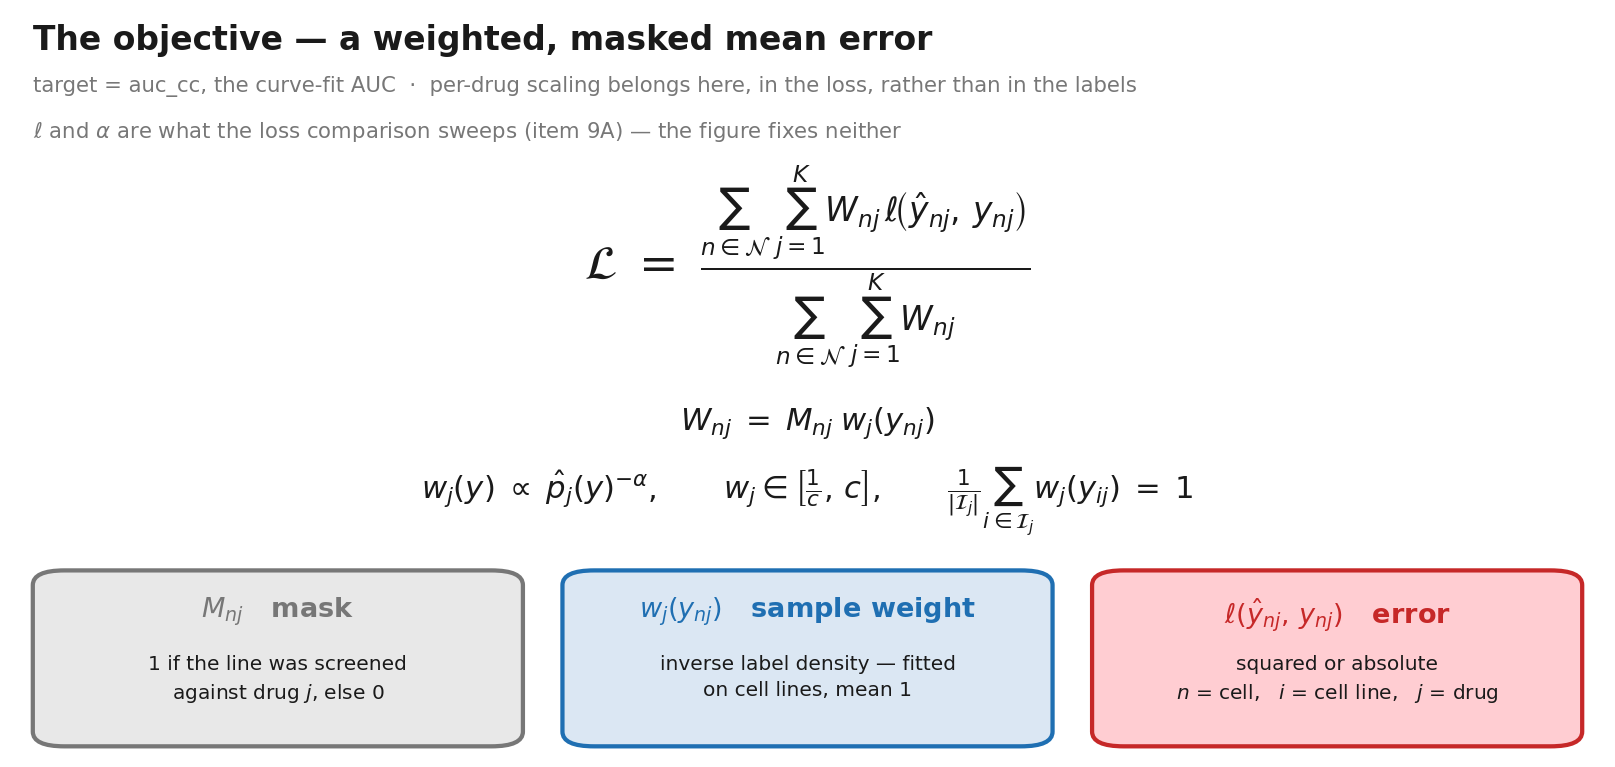
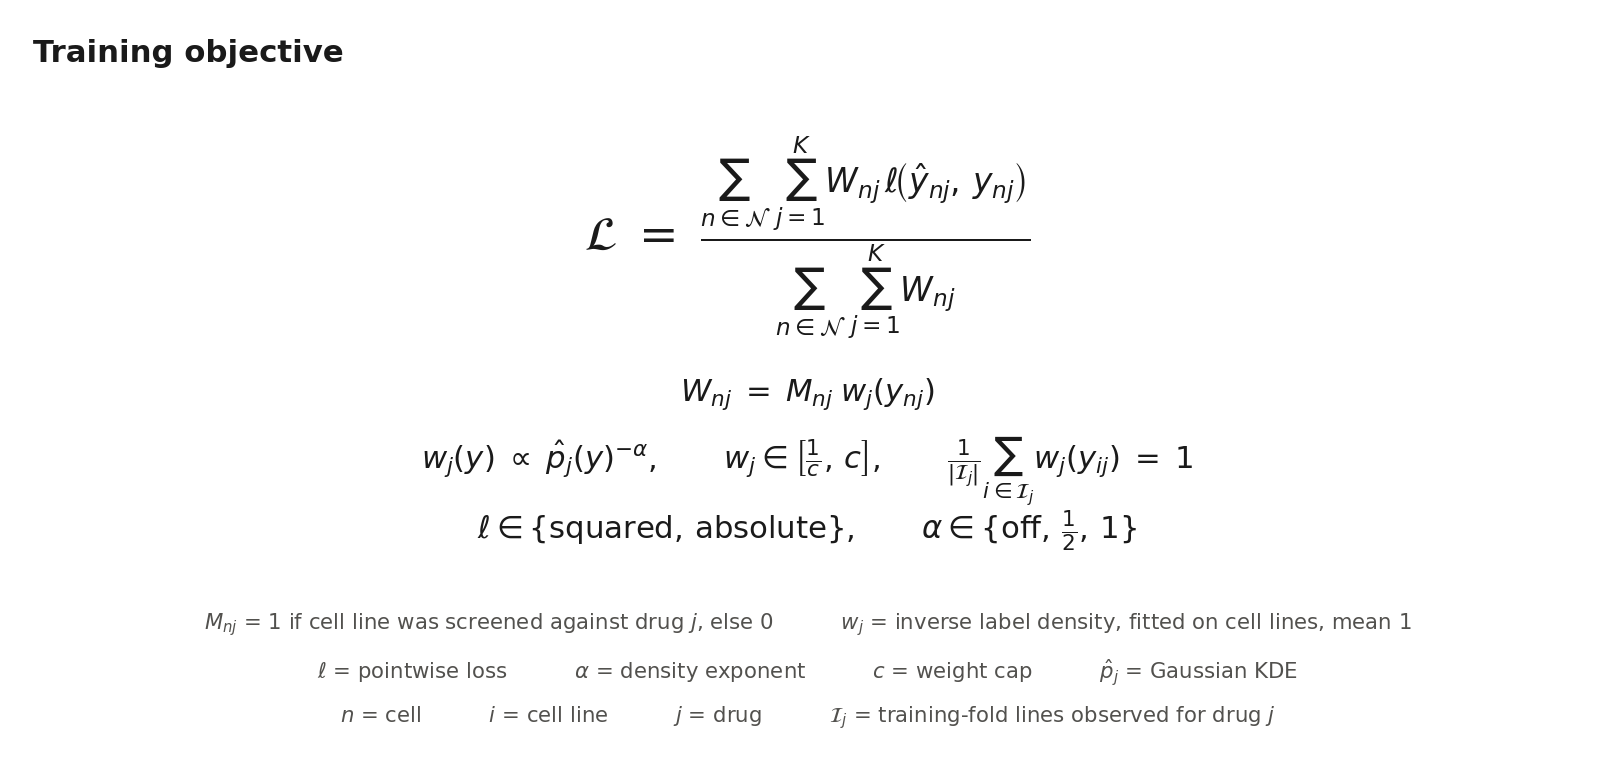
viz: neutralize the asserted results, derive the wrong counts, strip the decoration
The figure follow-up, first half: the items that are wrong regardless of what R4
produces. The half R4 rewrites underneath is listed and left.

ASSERTED RESULTS - NEUTRALIZED (four sites, not five; the earlier count double-
counted the pair of diagonal annotations)

* build_pipeline_flow's stage-8 label read "one seed - only scGPT clears the
  ridge control": a finding of the void 8-drug run printed as a STEP OF THE
  PIPELINE, where nothing about it could be falsified. Now "mean per-drug
  Spearman, MLP against ridge".
* build_loss_effect's title read "The weighting fired - and the ranking did not
  move" - the 27.07 conclusion, on the figure drawn from the run that re-tests
  it. Now names the two quantities and the contrast.
* Its two diagonal annotations read the result off the plot for the reader. The
  dashed line needs identifying, not explaining: "dashed: y = x".

ASSERTED A SWEPT ARM AS FACT - NEUTRALIZED (three sites; the audit had two)

draw_architecture's "trained with the density-weighted masked MSE" asserted two
arms of the six-arm comparison as settled. build_pipeline_flow's "rare response
values weighted up" is true only for alpha > 0. And build_pipeline's box 03 said
"masked MSE", found in this sweep and not in the audit. All three now name the
structure audit 09 actually froze - masked mean error over observed pairs.

COUNTS - THE TWO THAT WERE WRONG NOW DERIVE FROM len(PANEL)
[…]

diff --git a/docs/make_figures.py b/docs/make_figures.py
@@ -37,12 +37,18 @@ Derive it — ``len(PANEL)``, a row count, a config value. ``"the 8 heads"`` was
 was found (the rebuilt panel has 11), and ``180 trainable`` becomes 181 at the sweep. A number typed
 into a string cannot be checked by anything.
 
-AUDIT AGAINST THOSE RULES — 12.08.2026, not yet applied
--------------------------------------------------------
+AUDIT AGAINST THOSE RULES — 12.08.2026; ✅ items applied 13.08.2026
+-------------------------------------------------------------------
+**Applied:** every assertion (⛔), both counts that were *wrong* rather than merely hardcoded, and
+the infographic cleanup of ``draw_loss_objective``. **Not applied, and why:** the four headline
+captions quantify results and would only be rewritten after R4; the seven remaining counts are
+correct today and are not derivable from any committed artifact under the freeze; and
+``draw_architecture``'s decorative marks cannot be touched because every figure that renders it is
+skipped, so no change to it can be looked at — and this file does not commit drawings nobody has
+seen. Each is marked below.
+
 Every title, caption, annotation and axis label in this file, judged twice: *does it assert a
-result?* and *is it a scientific caption or a headline?* **Nothing below has been rewritten.** The
-figures are held until R4, and the ⛔ entries cannot be rewritten before then anyway — a title naming
-what the run showed has to wait for the run. A checklist, so the pass is not a rediscovery.
+result?* and *is it a scientific caption or a headline?*
 
 **Keyed by function and by the opening words of the string — never by line number.** The first
 version of this audit was keyed by line, and the commit that recorded it is the commit that broke
@@ -51,22 +57,45 @@ file under active edit decay silently, and a checklist that sends the reader to 
 worse than none, because it will be trusted. ``grep -n`` on the quoted words finds each site in any
 ref.
 
-⛔ **Asserts a result — rewrite from what the run shows, not before:**
+✅ **Asserted a result — neutralized 13.08.2026.** Four sites, not five: the earlier count of five
+double-counted the pair of diagonal annotations. Each now says what is plotted; what it means belongs
+in prose. Not deferred to R4, because after the run the fix would only swap one asserted result for
+another.
   ``build_pipeline_flow``   "one seed — only scGPT clears the ridge control"
-        A finding from the void 8-drug run used as the **stage-8 label of the pipeline diagram**, so
-        the drawing of the pipeline presents an outcome as though it were one of its steps.
+        → "mean per-drug Spearman, MLP against ridge". A finding of the void 8-drug run used as the
+        **stage-8 label of the pipeline diagram**, where nothing about it could be falsified.
   ``build_loss_effect``     "The weighting fired — and the ranking did not move"
-        The 27.07 conclusion, on the figure drawn from the run that re-tests that very claim.
+        → "Prediction spread and per-drug Spearman, unweighted against density-weighted".
   ``build_loss_effect``     "above the line: the model hedges less" · "on the line: no gain, no loss"
+        → "dashed: y = x". The diagonal needs identifying, not interpreting.
 
-⛔ **Asserts a swept arm as a fact:**
+✅ **Asserted a swept arm as a fact — neutralized 13.08.2026.** Three sites: the audit found two and
+a third turned up in the same sweep.
   ``draw_architecture``     "per-cell MLP · trained with the density-weighted masked MSE"
-        States both that weighting is on and that the loss is squared error. Under item 9A ``alpha``
-        is in {0.0, 0.5, 1.0} and the loss is MSE / MAE — both are arms.
+        → "masked mean error over observed (cell, drug) pairs". It asserted two arms of the six-arm
+        comparison as settled — that the weighting is on, and that the loss is squared.
   ``build_pipeline_flow``   "unscreened pairs dropped, rare response values weighted up"
-        Same class: true only for ``alpha > 0``.
+        → "unscreened pairs dropped; per-drug sample weights". True only for ``alpha > 0``.
+  ``build_pipeline``        "masked MSE · matched (128,64) MLP"   (found 13.08, not in the audit)
+        → "masked mean error · matched (128,64) MLP".
 
-⚠ **Headline register — true, but the wrong form:**
+⛔ **A measurement published under another drug's name — found 13.08.2026, guarded, NOT repaired.**
+  Not a register or a count defect, and the most serious thing in this file. ``draw_architecture``
+  drew ``EXAMPLE_PRED``/``EXAMPLE_TRUE`` — eight real out-of-fold predictions from the **void 8-drug**
+  run — and labelled bar ``j`` with ``PANEL[j]``, the **rebuilt 11-drug** panel. The two panels share
+  three compounds, in a different order, so **all eight bars carried the wrong compound's name**, and
+  four labels named drugs that were never in that run. Verified against
+  ``legacy/panel_void_8drug/panel_oof_predictions.csv``: the bar labelled *paclitaxel* held
+  vincristine's value; the bar labelled *doxorubicin* held methotrexate's.
+  Repair needs out-of-fold predictions for the rebuilt panel, i.e. R4. Until then
+  :func:`_example_matches_panel` skips both consumers with a printed reason. ``EXAMPLE_DRUGS`` now
+  records which compounds the vector actually describes, which is what made the mismatch checkable
+  instead of invisible.
+
+⚠ **Headline register — true, but the wrong form. NOT rewritten: they quantify results, so drafting
+  them now guarantees rewriting them after R4.** Two of the four were removed anyway as a side
+  effect of the infographic cleanup (``draw_loss_objective``'s title and its "per-drug scaling
+  belongs here" line); the two in ``draw_architecture`` stand.
   ``draw_architecture``     "Model architecture — one cell in, one AUC per panel drug out"
         The clause after the dash is a strapline; "Model architecture" is the caption.
   ``draw_loss_objective``   "The objective — a weighted, masked mean error"     (written 12.08, mine)
@@ -76,17 +105,31 @@ ref.
         cited. A *different passage* from the PLOTTED/CURRENT disclaimer below, in the same function
         — the two sit ten lines apart and have been confused once already.
 
-⚠ **Infographic register (rule 3).** ``draw_loss_objective``'s three rounded colour-filled callout
-  boxes and grey italic asides; ``draw_architecture``'s circles, arrows and heat strips. Both mine
-  to redraw at R4.
+✅⚠ **Infographic register (rule 3) — half applied.**
+  ``draw_loss_objective``   ✅ the three rounded colour-filled callout panels and the two grey
+        asides are gone, replaced by a plain symbol list under the equations. The title is
+        "Training objective"; the argument about where per-drug scaling belongs has moved out.
+  ``draw_architecture``     ⚠ **not touched, deliberately.** Its circles, arrows and heat strips
+        are decoration by rule 3, but *every figure that renders this function is skipped* — so no
+        change to it could be rendered and looked at, and this file does not commit drawings nobody
+        has seen. It is the one item here blocked by the freeze rather than by R4's numbers.
 
-⚠ **Hardcoded counts (rule 4).**
-  ``draw_architecture``     "the 8 heads are the 8 rows of one Linear(64 → 8)"  — **already wrong**:
-        it describes the architecture, inside the architecture diagram, and the rebuilt panel has 11.
-  ``build_pipeline``        "CTRPv2 545 drugs" · "overlap 190* lines · 180 trainable" ·
-                            "K=545 · out-of-fold over 153 lines" · "out-of-fold CV over 153 lines" ·
-                            "* 190 = name-matches …"          — ``180`` becomes 181 at the sweep.
-  ``build_pipeline_flow``   "one cell line = 56–1,990 cells" · "545 drugs  →" · "8  the panel"
+✅⚠ **Hardcoded counts (rule 4) — the two that were wrong are fixed; seven remain and are correct.**
+  ``draw_architecture``     ✅ "the 8 heads … Linear(64 → 8)" now derives from ``len(PANEL)``.
+  ``build_pipeline_flow``   ✅ the funnel's panel tier derives from ``len(PANEL)``. It was hardcoded
+        ``8`` against a rebuilt panel of 11, and the same ``n`` sets the tier's drawn width — so the
+        funnel was the wrong shape as well as the wrong number.
+  ⚠ **Not derivable under the freeze, and correct as they stand:** ``build_pipeline``'s "SCP542
+        53,513 cells x 22,722 g", "CTRPv2 545 drugs", "overlap 190* lines · 180 trainable",
+        "K=545 · out-of-fold over 153 lines", "out-of-fold CV over 153 lines", the "* 190 = …"
+        footnote, "173 FDA / clinical"; and ``build_pipeline_flow``'s "one cell line = 56–1,990
+        cells" and "545 drugs →". Their sources are the targets h5ad and the response table, neither
+        of which a standard run has produced on ``auc_cc``. ``53,513`` alone could be read from
+        ``notebooks/outputs/embeddings/scgpt_nonzero_per_cell.npz`` — but only by making
+        ``pipeline_overview.png``, a pure drawing, data-dependent, which would cost it the property
+        of always building. That trade is a design choice and was referred up rather than taken here.
+        ``180`` becomes 181 at the sweep; ``173 FDA / clinical`` may already be superseded by the
+        57-row ``literature_panel_candidates.csv``, which is a question about what the tier means.
 
 ✅ **Correct as written; do not sweep in:**
   ``draw_architecture``     "PLOTTED: the superseded run … CURRENT PIPELINE: auc_cc, …"
@@ -227,7 +270,9 @@ def build_pipeline():
         ["scGPT X_scGPT = 512-d", "gene-set sweep 1k-5k + all_genes",
          "X_pca = 512-d · cancer-type UMAPs"], GREEN, GREEN_FILL)
     box(ax, XS[2], ROW_A, W, H, "03 · Model & training design",
-        ["per-cell input -> viability", "masked MSE · matched (128,64) MLP",
+        # "masked MSE" named the squared loss as settled; it is an arm of the six-arm comparison.
+        # Found beyond the audit's list, same class as the other two.
+        ["per-cell input -> viability", "masked mean error · matched (128,64) MLP",
          "PCA & scGPT both 512-d"], GREEN, GREEN_FILL)
     # Results withdrawn 12.08.2026 -- the target was replaced, the panel rebuilt, and the
     # representations predate the preprocessing corrections. These boxes named specific numbers
@@ -295,12 +340,40 @@ def _heat_strip(ax, xc, y0, y1, vals, cmap, w=2.4):
 
 
 #: One real held-out cell line, scGPT, unweighted run (notebooks/outputs/legacy/panel_void_8drug/panel_oof_predictions.csv,
-#: fold in which SKES1_BONE was held out). Predicted vs measured AUC for the eight panel drugs. Used
-#: instead of an invented vector so the figure shows the actual output scale -- including the visible
-#: shrinkage (predictions span 0.37-0.75 against a measured 0.04-0.91).
+#: fold in which SKES1_BONE was held out). Predicted vs measured AUC. Used instead of an invented
+#: vector so the figure shows the actual output scale -- including the visible shrinkage
+#: (predictions span 0.37-0.75 against a measured 0.04-0.91).
+#:
+#: ⛔ **These belong to the VOID 8-drug panel and must not be drawn against ``PANEL``.** In file
+#: order they are methotrexate, dasatinib, paclitaxel, vincristine, afatinib, topotecan,
+#: tanespimycin, selumetinib. The drawing labelled bar ``j`` with ``PANEL[j]``, and the rebuilt
+#: 11-drug panel shares only three compounds with the void one and in a different order -- so **all
+#: eight bars were attributed to the wrong compound**, and four of the labels name drugs that were
+#: never in the run at all. That is not a stale count; it is a measurement shown under another
+#: drug's name. Guarded by :func:`_example_matches_panel` rather than repaired here: repairing it
+#: needs out-of-fold predictions for the rebuilt panel, which exist only after R4.
 EXAMPLE_LINE = "SKES1_BONE"
+EXAMPLE_DRUGS = ["methotrexate", "dasatinib", "paclitaxel", "vincristine",
+                 "afatinib", "topotecan", "tanespimycin", "selumetinib"]
 EXAMPLE_PRED = [0.438, 0.663, 0.384, 0.372, 0.748, 0.545, 0.666, 0.739]
 EXAMPLE_TRUE = [0.511, 0.797, 0.122, 0.036, 0.692, 0.177, 0.655, 0.908]
+
+
+def _example_matches_panel(name: str) -> bool:
+    """True (and prints why) if the architecture example vector does not describe ``PANEL``.
+
+    The bars are real out-of-fold predictions, so each one is a measurement and carries the name of
+    the drug it was measured on. When the example vector and the panel disagree, drawing them
+    together publishes each measurement under some other compound's name -- which no amount of
+    caption disclaims. Skip-with-a-reason, the same convention the data-derived figures use.
+    """
+    if EXAMPLE_DRUGS == list(PANEL):
+        return False
+    print(f"  {name}: SKIPPED — the example prediction vector is the void 8-drug panel "
+          f"({', '.join(EXAMPLE_DRUGS[:3])}…) and the current panel is {len(PANEL)} drugs "
+          f"({', '.join(PANEL[:3])}…). Drawing them together labels each measurement with "
+          f"another drug's name. Needs out-of-fold predictions for the rebuilt panel (R4).")
+    return True
 
 
 def draw_architecture(ax, *, compact: bool = False):
@@ -329,7 +402,10 @@ def draw_architecture(ax, *, compact: bool = False):
         # "8-drug" and "25 epochs" are accurate about what is PLOTTED and wrong only if read as the
         # current pipeline. Split into two lines on 12.08.2026 (Selin) so the distinction is on the
         # figure rather than only in the README caption.
-        ax.text(0, 48.0, "per-cell MLP · trained with the density-weighted masked MSE (loss_01–03)",
+        # Was "trained with the density-weighted masked MSE", which asserted two arms of the six-arm
+        # comparison as settled: that the weighting is on, and that the loss is squared error. Names
+        # the structure that audit 09 froze instead, which is what the diagram actually shows.
+        ax.text(0, 48.0, "per-cell MLP · masked mean error over observed (cell, drug) pairs (loss_01)",
                 ha="left", va="top", fontsize=8.5, color=GREY)
 
     # ---------- INPUT: one cell -> embedding vector ----------
@@ -380,7 +456,10 @@ def draw_architecture(ax, *, compact: bool = False):
         ax.text(43.2, 22.6, "hidden block  =  Linear → LayerNorm → GELU → Dropout 0.5      ·      "
                             "input dropout 0.1      ·      Adam, early stopping (patience 10)",
                 ha="center", va="top", fontsize=8.2, color=INK)
-        ax.text(43.2, 19.8, "the 8 heads are the 8 rows of one Linear(64 → 8) over a shared trunk — "
+        # Derived from PANEL, not typed. This read "the 8 heads … Linear(64 → 8)" while the rebuilt
+        # panel had 11 — a wrong statement about the architecture, inside the architecture diagram.
+        ax.text(43.2, 19.8, f"the {len(PANEL)} heads are the {len(PANEL)} rows of one "
+                            f"Linear(64 → {len(PANEL)}) over a shared trunk — "
                             "there is no per-drug sub-network",
                 ha="center", va="top", fontsize=8.2, color=GREY, style="italic")
 
@@ -437,7 +516,7 @@ def draw_architecture(ax, *, compact: bool = False):
 
 
 def build_architecture():
-    if _needs_data("model_architecture.png"):
+    if _needs_data("model_architecture.png") or _example_matches_panel("model_architecture.png"):
         return
     fig, ax = plt.subplots(figsize=(17.0, 6.6))
     draw_architecture(ax)
@@ -575,7 +654,8 @@ def build_pipeline_flow():
     ``loss_01_objective.png`` with ``compact=True``, so the pipeline cannot drift away from the
     standalone figures. Everything that needs a sentence lives in the docs, not on the slide.
     """
-    if _needs_data("pipeline.png"):
+    # Stage 5 embeds draw_architecture, so the same mislabelling reaches this figure.
+    if _needs_data("pipeline.png") or _example_matches_panel("pipeline.png"):
         return
     d = figure_data()
     corr = panel_corr()
@@ -636,9 +716,11 @@ def build_pipeline_flow():
           "only compounds with a published\nsensitivity determinant", ROW1_CAP)
     ax = fig.add_axes([0.255, 0.615, 0.125, 0.225]); ax.set_xlim(0, 10); ax.set_ylim(0, 10)
     ax.axis("off")
+    # The panel tier is derived: it was hardcoded 8 against a rebuilt panel of 11, and `n` also sets
+    # the tier's drawn width, so the funnel was the wrong shape as well as the wrong number.
     for i, (n, lab, col) in enumerate([(545, "545  CTRPv2 compounds", "#c3dcef"),
                                        (173, "173  FDA / clinical", "#6ba7d6"),
-                                       (8, "8  the panel", BLUE)]):
+                                       (len(PANEL), f"{len(PANEL)}  the panel", BLUE)]):
         half = 4.6 * (0.55 + 0.45 * (n / 545) ** 0.35)
         yb = 7.4 - i * 2.9
         ax.add_patch(mpatches.Polygon(
@@ -736,8 +818,10 @@ def build_pipeline_flow():
     draw_architecture(ax, compact=True)
 
     # ================================================== 6 · loss  (the standalone drawing)
+    # "rare response values weighted up" asserted that the weighting is on. It is an arm: alpha in
+    # {0, 0.5, 1.0}, and at alpha=0 no value is weighted up at all. Says what the stage does instead.
     stage(41.0, ROW2_TITLE, "6", "Loss",
-          "unscreened pairs dropped, rare\nresponse values weighted up", ROW2_CAP)
+          "unscreened pairs dropped;\nper-drug sample weights", ROW2_CAP)
     ax = fig.add_axes([0.405, 0.215, 0.215, 0.16])
     draw_loss_objective(ax, compact=True)
 
@@ -757,8 +841,11 @@ def build_pipeline_flow():
     ax.tick_params(labelsize=6.5)
 
     # ================================================== 8 · result
+    # "only scGPT clears the ridge control" stated a finding of the void 8-drug run as a *step of the
+    # pipeline*, where nothing could falsify it. The panel below plots four means; the caption now
+    # says that and no more.
     stage(82.0, ROW2_TITLE, "8", "Result",
-          "one seed — only scGPT clears\nthe ridge control", ROW2_CAP)
+          "mean per-drug Spearman,\nMLP against ridge", ROW2_CAP)
     ax = fig.add_axes([0.868, 0.155, 0.115, 0.255])
     ridge = pd.read_csv(LEGACY_PANEL / "panel_ridge_baseline.csv")
     bars = [
@@ -936,18 +1023,10 @@ def draw_loss_objective(ax, *, compact: bool = False):
     tex = LOSS_TEX_MACROS
 
     if not compact:
-        ax.text(1, 99, "The objective — a weighted, masked mean error",
-                ha="left", va="top", fontsize=14, fontweight="bold", color=INK)
-        ax.text(1, 92, "target = auc_cc, the curve-fit AUC  ·  per-drug scaling belongs here, in the "
-                       "loss, rather than in the labels",
-                ha="left", va="top", fontsize=9, color=GREY)
-        # The three swept quantities are named as swept, so the figure cannot be read as claiming a
-        # loss the run has not chosen yet.
-        ax.text(1, 86, r"$\ell$ and $\alpha$ are what the loss comparison sweeps "
-                       "(item 9A) — the figure fixes neither",
-                ha="left", va="top", fontsize=9, color=GREY)
+        ax.text(1, 97, "Training objective", ha="left", va="top",
+                fontsize=13, fontweight="bold", color=INK)
 
-    ax.text(50, 80 if not compact else 92, f"${tex['LossObjective']}$",
+    ax.text(50, 84 if not compact else 92, f"${tex['LossObjective']}$",
             ha="center", va="top", fontsize=20 if not compact else 15, color=INK)
     if compact:
         return
@@ -955,25 +1034,24 @@ def draw_loss_objective(ax, *, compact: bool = False):
     # The weight definition is not decoration: the objective above sums over cells (n), while the
     # density is fitted on the training fold's cell LINES (i). Dropping these two lines would leave
     # an equation equally true of the naive per-cell variant this deliberately rejects.
-    ax.text(50, 47, f"${tex['LossWeightMatrix']}$",
+    ax.text(50, 51, f"${tex['LossWeightMatrix']}$",
             ha="center", va="top", fontsize=13, color=INK)
-    ax.text(50, 39, f"${tex['LossWeightFn']}$",
+    ax.text(50, 43, f"${tex['LossWeightFn']}$",
+            ha="center", va="top", fontsize=13, color=INK)
+    ax.text(50, 33, f"${tex['LossArms']}$",
             ha="center", va="top", fontsize=13, color=INK)
 
-    for x, edge, fill, head, body in [
-        (1.5, GREY, GREY_FILL, r"$M_{nj}$   mask",
-         "1 if the line was screened\nagainst drug $j$, else 0"),
-        (35.0, BLUE, BLUE_FILL, r"$w_j(y_{nj})$   sample weight",
-         "inverse label density — fitted\non cell lines, mean 1"),
-        (68.5, RED, RED_FILL, r"$\ell(\hat{y}_{nj},\,y_{nj})$   error",
-         "squared or absolute\n$n$ = cell,   $i$ = cell line,   $j$ = drug"),
-    ]:
-        ax.add_patch(FancyBboxPatch((x, 1), 30, 23, boxstyle="round,pad=0.5,rounding_size=2.0",
-                     linewidth=1.8, edgecolor=edge, facecolor=fill, zorder=2))
-        ax.text(x + 15, 21.0, head, ha="center", va="top", fontsize=11.5,
-                fontweight="bold", color=edge, zorder=3)
-        ax.text(x + 15, 13.0, body, ha="center", va="top", fontsize=8.5, color=INK,
-                zorder=3, linespacing=1.5)
+    # Plain definition list, replacing three rounded colour-filled callout panels. The symbols need
+    # defining; they do not need a coloured box each, and the boxes carried no information the text
+    # does not. Set as text so it reads as a legend rather than as an infographic.
+    ax.text(50, 19, "\n".join([
+        r"$M_{nj}$ = 1 if cell line was screened against drug $j$, else 0"
+        r"          $w_j$ = inverse label density, fitted on cell lines, mean 1",
+        r"$\ell$ = pointwise loss          $\alpha$ = density exponent          "
+        r"$c$ = weight cap          $\hat{p}_j$ = Gaussian KDE",
+        r"$n$ = cell          $i$ = cell line          $j$ = drug          "
+        r"$\mathcal{I}_j$ = training-fold lines observed for drug $j$",
+    ]), ha="center", va="top", fontsize=9, color=MUTED, linespacing=1.9)
 
 
 def build_loss_objective():
@@ -1178,8 +1256,10 @@ def build_loss_effect():
 
     fig, (a1, a2) = plt.subplots(1, 2, figsize=(10.5, 5.4))
     fig.subplots_adjust(top=0.82)
-    fig.suptitle("The weighting fired — and the ranking did not move", x=0.02, ha="left",
-                 fontsize=13, fontweight="bold", color=INK, y=0.99)
+    # Was "The weighting fired — and the ranking did not move": the 27.07 conclusion, on the void
+    # panel and the retired target, printed on the figure drawn from the run that re-tests it.
+    fig.suptitle("Prediction spread and per-drug Spearman, unweighted against density-weighted",
+                 x=0.02, ha="left", fontsize=13, fontweight="bold", color=INK, y=0.99)
     fig.text(0.02, 0.925, "one point per drug, out of fold, one seed — unweighted against "
                           "density-weighted",
              ha="left", va="top", fontsize=8.8, color=GREY)
@@ -1199,10 +1279,12 @@ def build_loss_effect():
         _tidy(ax, grid="both")
         ax.tick_params(labelsize=8)
     a1.legend(frameon=False, fontsize=8.5, loc="lower right")
-    a1.text(0.04, 0.96, "above the line:\nthe model hedges less", transform=a1.transAxes,
-            ha="left", va="top", fontsize=8.5, color=BLUE)
-    a2.text(0.04, 0.96, "on the line:\nno gain, no loss", transform=a2.transAxes,
-            ha="left", va="top", fontsize=8.5, color=MUTED)
+    # Were "above the line: the model hedges less" and "on the line: no gain, no loss" — both read
+    # the result off the plot for the reader. The dashed diagonal needs identifying, not explaining;
+    # what a departure from it means belongs in the prose, where it can be cited and disputed.
+    for ax in (a1, a2):
+        ax.text(0.04, 0.96, "dashed: y = x", transform=ax.transAxes,
+                ha="left", va="top", fontsize=8.5, color=MUTED)
 
     out = FIG / "loss_03_effect.png"
     fig.savefig(out, dpi=170, bbox_inches="tight", facecolor="white")
